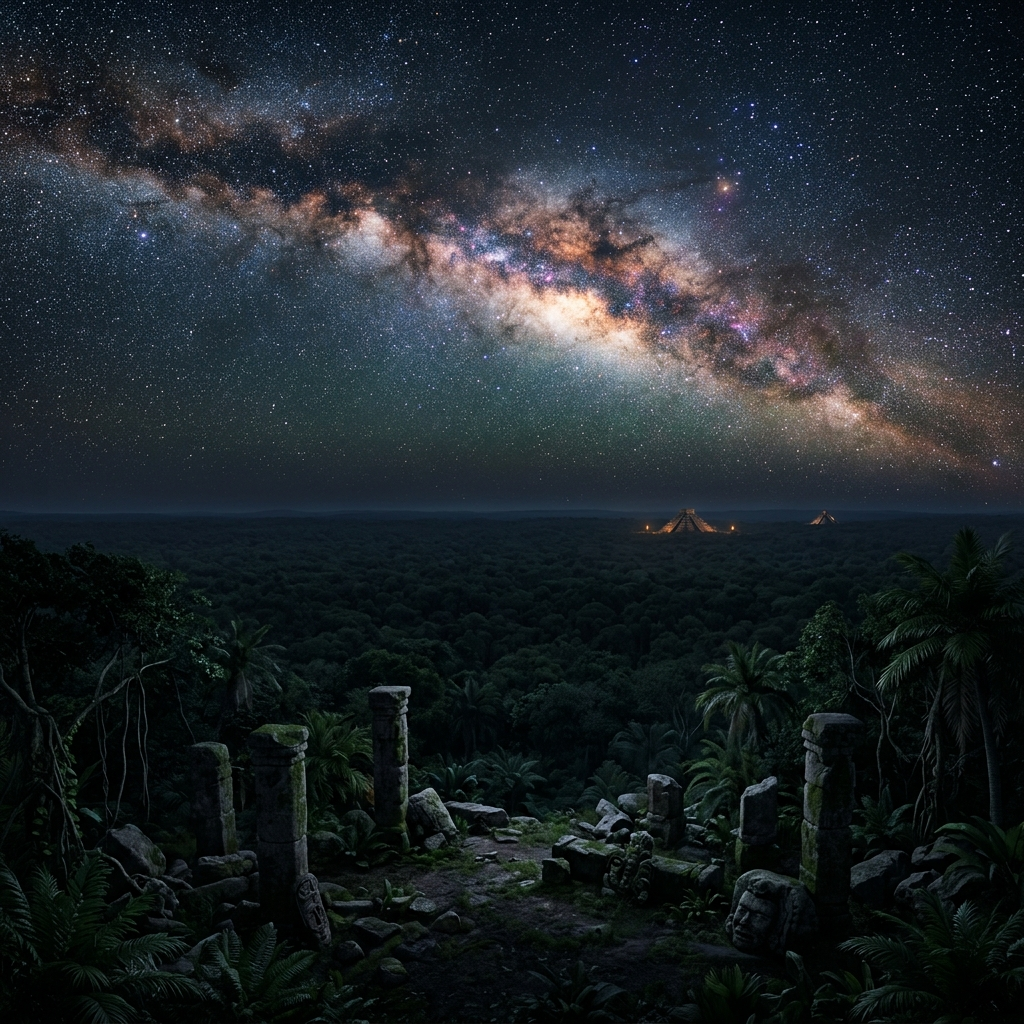
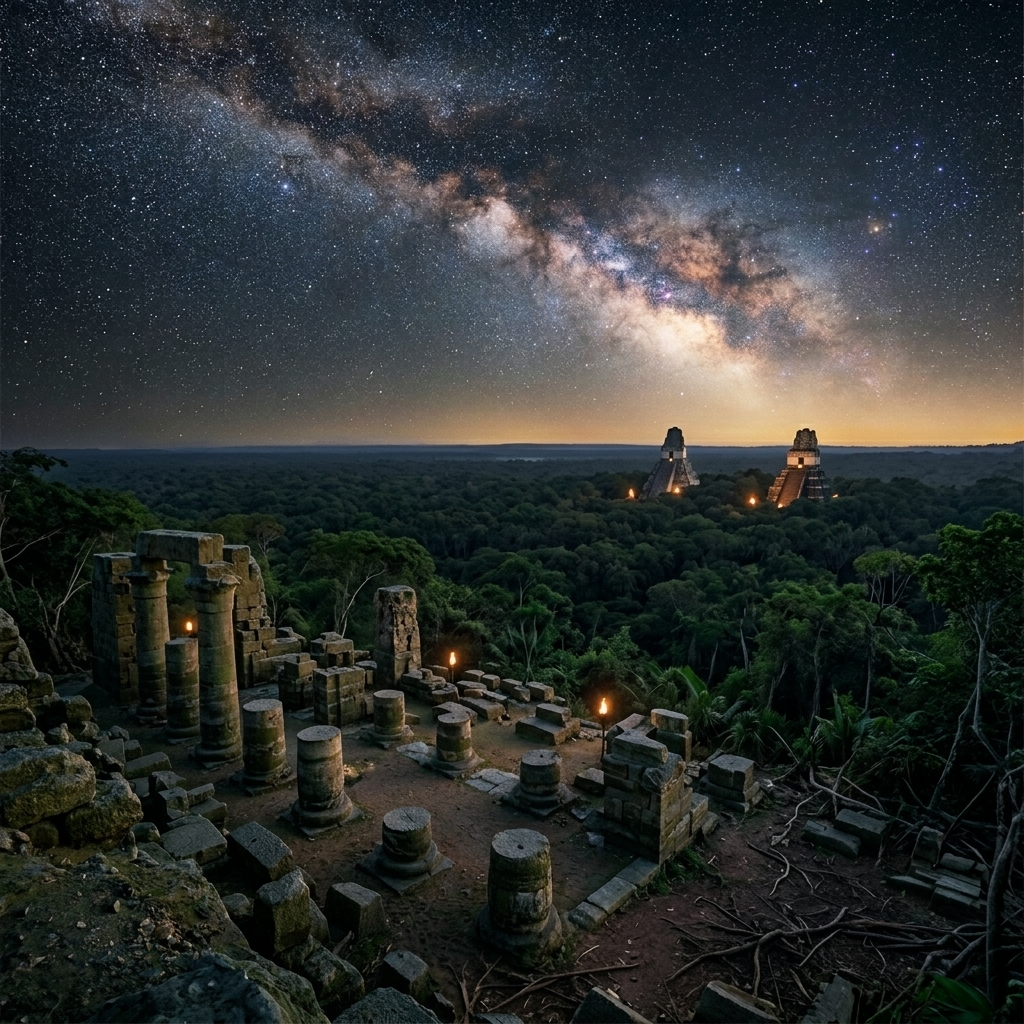
fix: updated maya background using exact egypt reference and fixed css cropping bug

diff --git a/app/hub/egypt-astro/page.js b/app/hub/egypt-astro/page.js
@@ -77,7 +77,7 @@ function NileRiver() {
       {/* Duplicamos la imagen de fondo exactamente igual, pero le aplicamos la distorsión del agua */}
       <div style={{
         position: 'absolute', inset: 0,
-        backgroundImage: 'url(/assets/egypt_hub_bg.png)',
+        backgroundImage: 'url(/assets/egypt/hub_background.png)',
         backgroundSize: 'cover',
         backgroundPosition: 'center bottom',
         backgroundRepeat: 'no-repeat',

diff --git a/app/hub/maya-astro/page.js b/app/hub/maya-astro/page.js
@@ -279,7 +279,7 @@ export default function MayaHub() {
         position: 'absolute', inset: 0,
         backgroundImage: 'url(/assets/maya/maya_hub_bg.png)',
         backgroundSize: 'cover',
-        backgroundPosition: 'center bottom',
+        backgroundPosition: 'center center',
         backgroundRepeat: 'no-repeat',
         filter: 'brightness(0.9) contrast(1.1)',
         zIndex: 0
